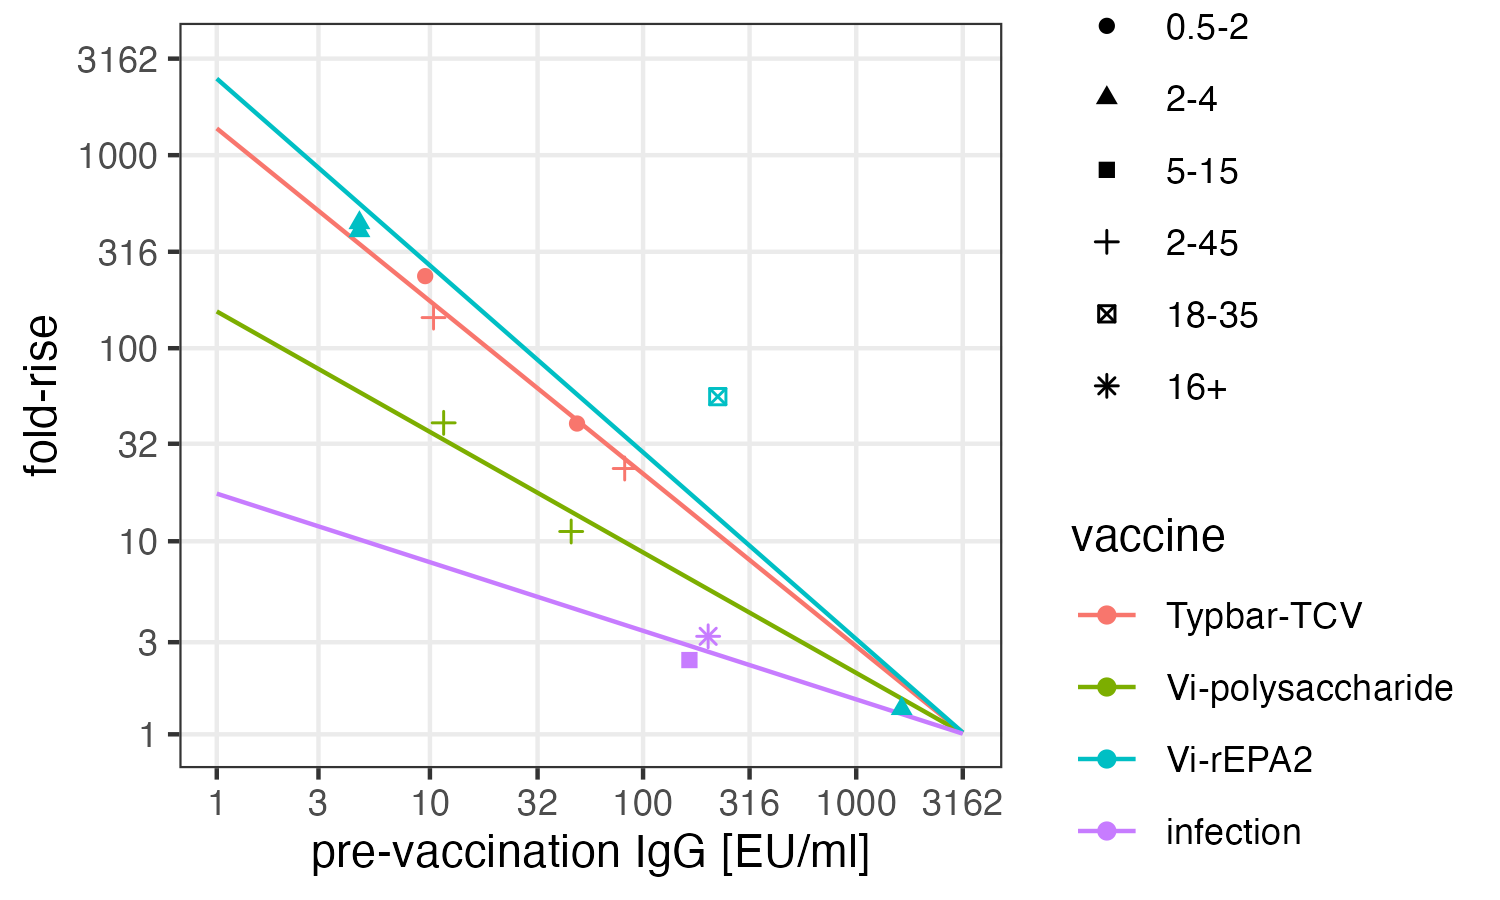
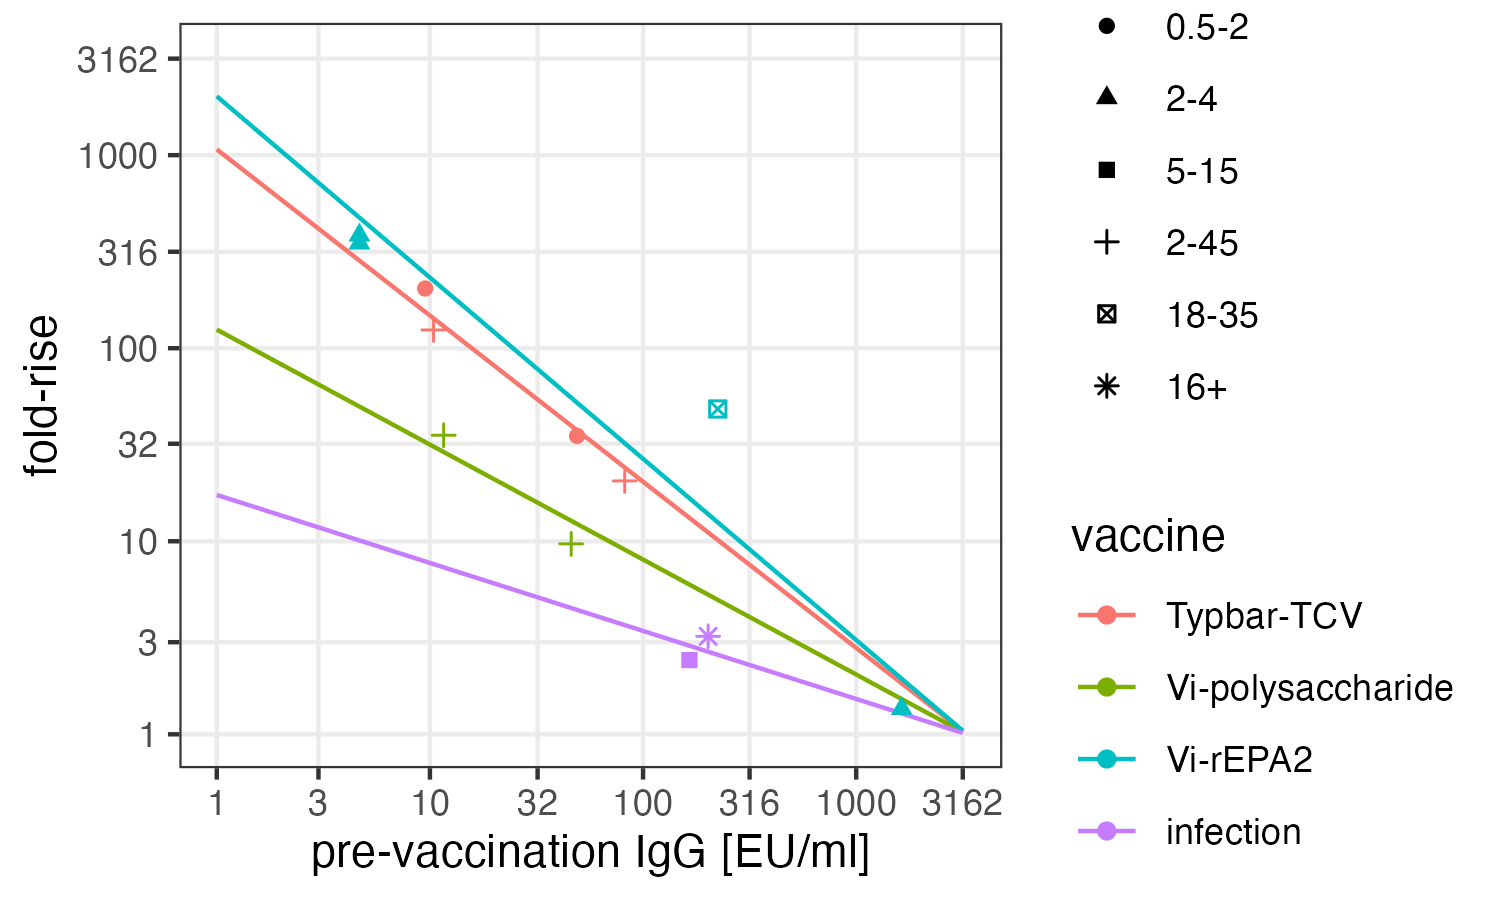
changed first results figure summarizing titer - log2 scaling of y axis - added detected serpositive fraction
also fixed minor bug

diff --git a/docs/blog/posts/cohort_incidence_model_proof_of_concept.md b/docs/blog/posts/cohort_incidence_model_proof_of_concept.md
@@ -496,6 +496,9 @@ And, for summarizing the results, let’s calculate incidence per 100k
 people by age and overall from the events data, and include the total
 incidence archetype targets for reference.
 
+    # incidence targets
+    incidence_fever_targets = c(medium = 53,high=214,very_high=1255)
+
     # calculate incidence
     for (k in 1:length(output)){
       
@@ -511,9 +514,6 @@ incidence archetype targets for reference.
                incidence_infection_overall = sum(incidence_infection*age_width/sum(age_width)),
                incidence_fever_target = incidence_fever_targets[names(output)[k]])
     }
-
-    # incidence targets
-    incidence_fever_targets = c(medium = 53,high=214,very_high=1255)
 
 ## Results!
 
@@ -678,6 +678,7 @@ median and IQR of the protective efficacy given dose, which is a
 function of the exposure dose and the titer.
 
     p_titer_summary=list()
+    p_seropositive_summary=list()
     p_titer_density=list()
     p_protective_efficacy_infection_summary=list()
     p_protective_efficacy_fever_summary=list()
@@ -695,6 +696,7 @@ function of the exposure dose and the titer.
                titer_lower_iqr = quantile(titer,probs=0.25),
                titer_upper_95 = quantile(titer,probs=0.975),
                titer_lower_95 = quantile(titer,probs=0.025),
+               fraction_seropositive_VaccZyme = mean(titer>7),
                protective_efficacy_infection_median = median(protective_efficacy_infection),
                protective_efficacy_infection_upper_iqr = quantile(protective_efficacy_infection,probs=0.75),
                protective_efficacy_infection_lower_iqr = quantile(protective_efficacy_infection,probs=0.25),
@@ -711,7 +713,7 @@ function of the exposure dose and the titer.
         geom_ribbon(aes(x=age_years,ymin=titer_lower_iqr,ymax=titer_upper_iqr),alpha=0.2)+
         geom_line(aes(x=age_years,y=titer_median)) + 
         geom_line(aes(x=age_years,y=titer_gmt),linetype='dashed') + 
-        scale_y_continuous(limits=c(1,10^3.5)) +
+        scale_y_continuous(limits=c(1,10^3.5),trans='log2') +
         theme_bw() +
         xlab('age') +
         labs(title = paste(sub('_',' ',names(output)[k]),' incidence',sep=''),
@@ -720,6 +722,18 @@ function of the exposure dose and the titer.
         theme(plot.title=element_text(size=10),plot.subtitle=element_text(size=8),
               axis.title = element_text(size=10)) +
         ylab('anti-Vi IgG EU/ml')
+
+    p_seropositive_summary[[k]] = ggplot(tmp_titer_summary) +
+        geom_line(aes(x=age_years,y=fraction_seropositive_VaccZyme)) + 
+        scale_y_continuous(limits=c(0,1)) +
+        theme_bw() +
+        xlab('age') +
+        labs(title = paste(sub('_',' ',names(output)[k]),' incidence',sep=''),
+             subtitle=paste('dose = ',output[[k]]$config$exposure_dose,' bacilli\nmean years b/w exposures = ',
+                            1/(12*output[[k]]$config$exposure_rate),sep='')) +
+        theme(plot.title=element_text(size=10),plot.subtitle=element_text(size=8),
+              axis.title = element_text(size=10)) +
+        ylab('fraction seropositive\n[anti-Vi IgG EU/ml > 7]')
       
     p_protective_efficacy_infection_summary[[k]] = ggplot(tmp_titer_summary) +
         geom_ribbon(aes(x=age_years,ymin=protective_efficacy_infection_lower_95,ymax=protective_efficacy_infection_upper_95),alpha=0.2)+
@@ -766,13 +780,15 @@ function of the exposure dose and the titer.
               axis.title = element_text(size=10)) 
     }
 
-This first plot shows the titer distribution by age, and
+This first plot shows the titer distribution by age and the fraction
+detected positive on the VaccZyme anti-Vi IgG assay.
 
-    wrap_plots(p_titer_summary) + plot_layout(guides = "collect",axes='collect')
+    wrap_plots(wrap_plots(p_titer_summary),wrap_plots(p_seropositive_summary),nrow=2) + 
+      plot_layout(guides = "collect",axes='collect')
 
 ![](cohort_incidence_model_proof_of_concept_files/figure-markdown_strict/unnamed-chunk-18-1.png)
 
-the second shows the distribution of individual-level protective
+The second shows the distribution of individual-level protective
 efficacies against infection and fever given those titers.
 
     wrap_plots(wrap_plots(p_protective_efficacy_fever_summary),wrap_plots(p_protective_efficacy_infection_summary),nrow=2) + plot_layout(guides = "collect",axes='collect')
